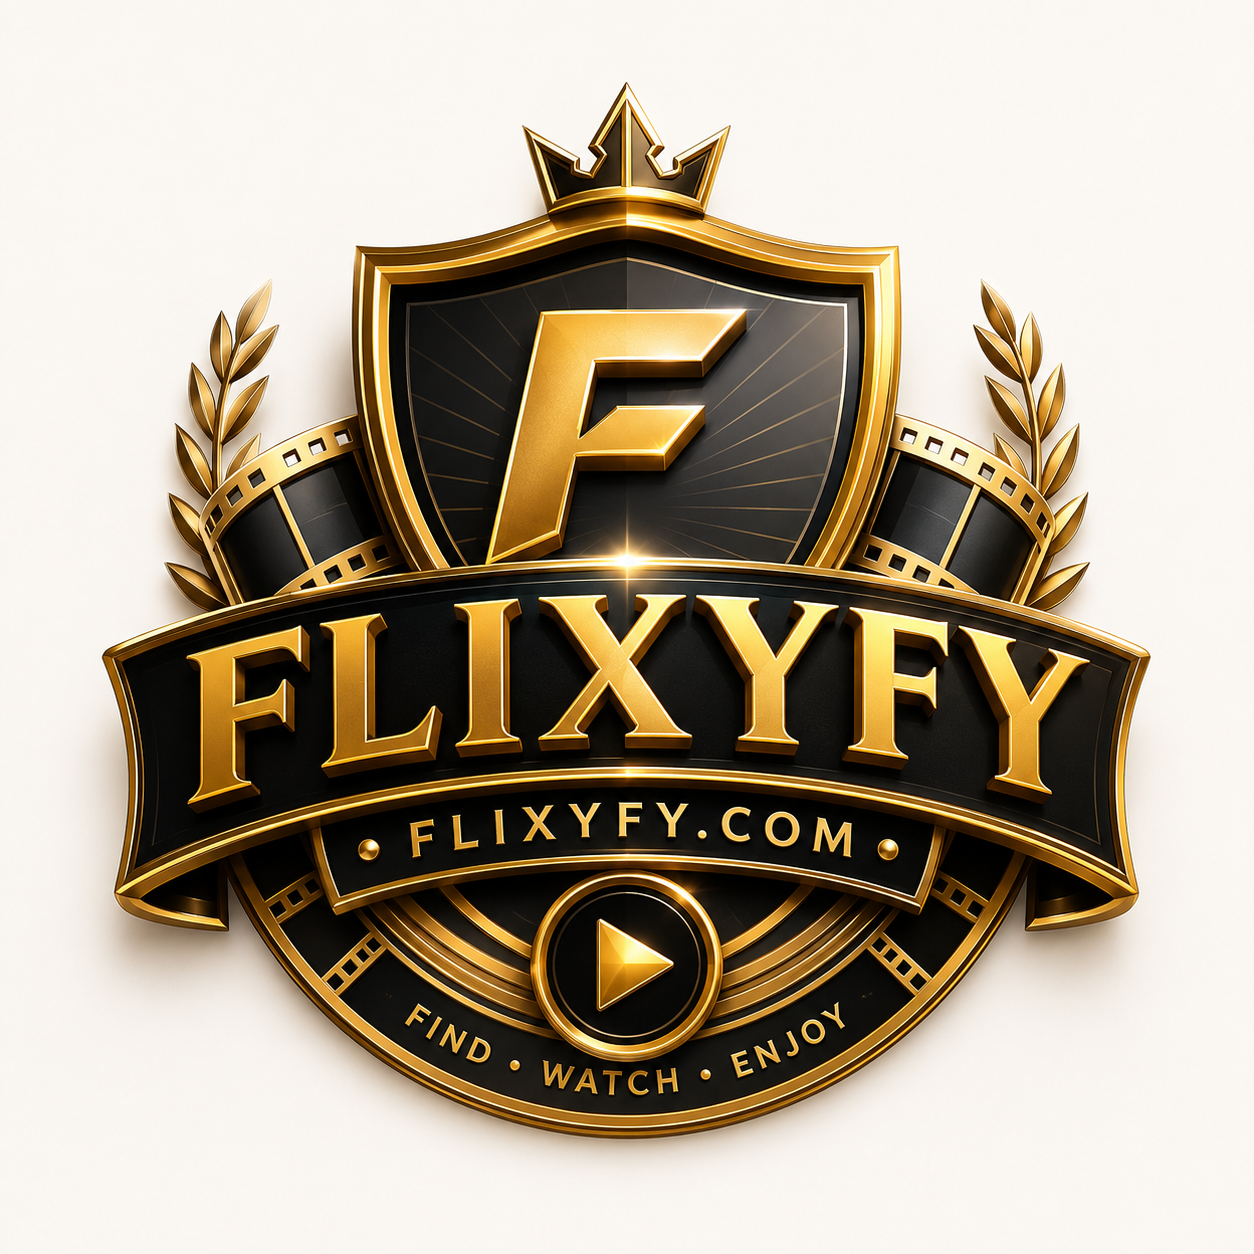
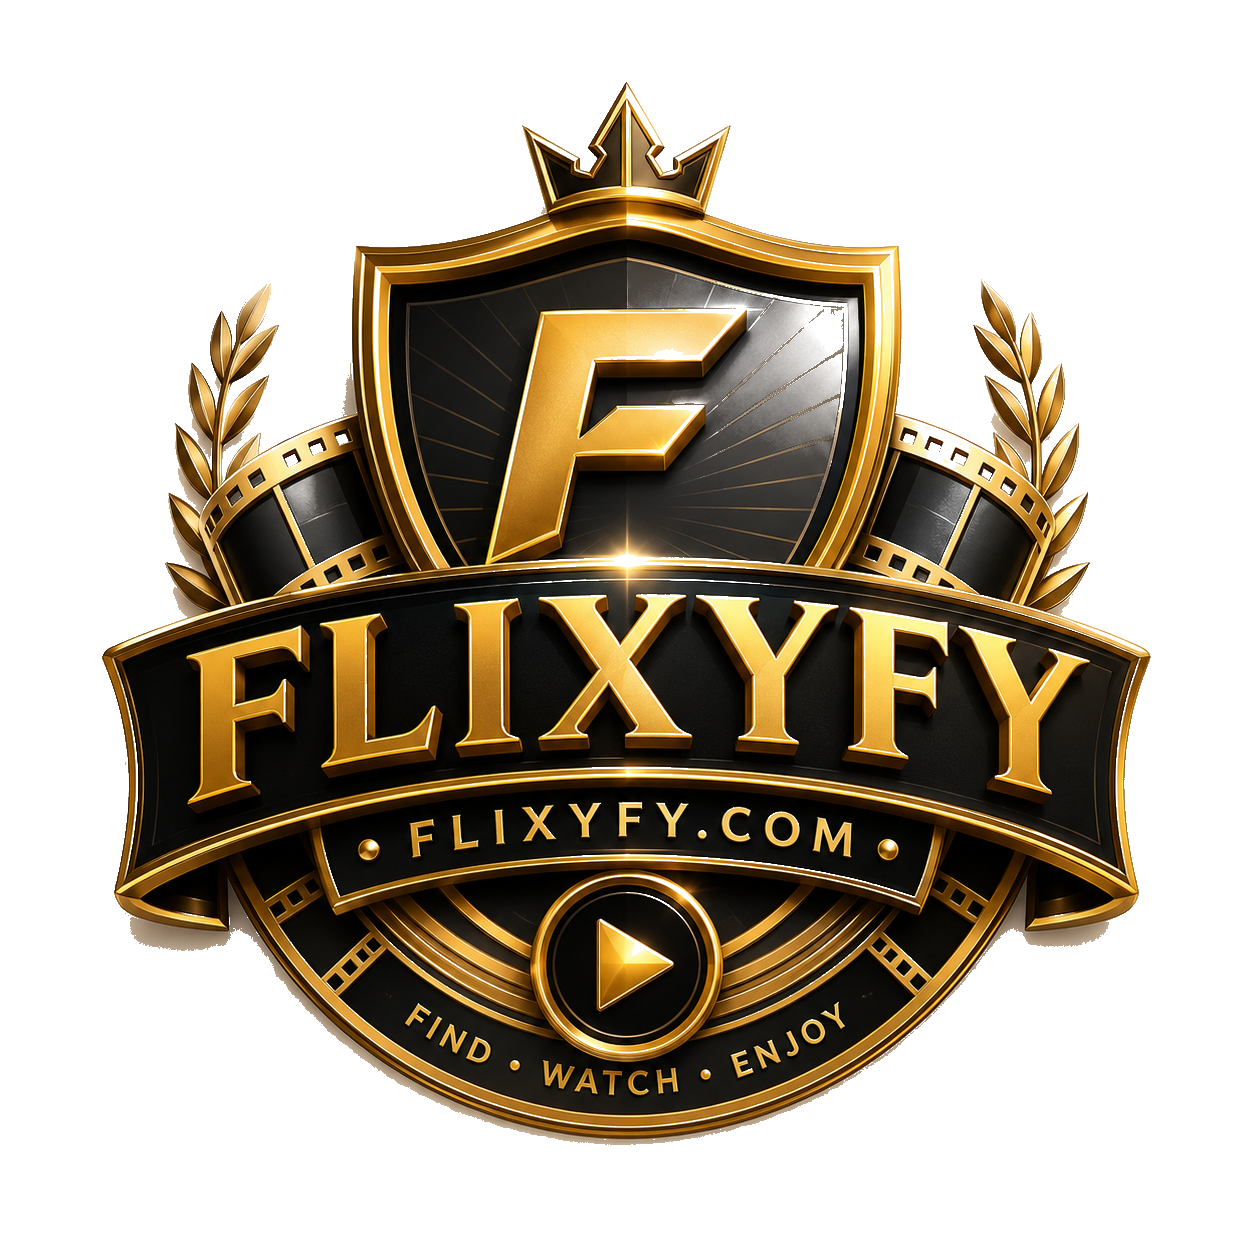
feat(web): polish homepage bright gold branding and navigation

diff --git a/app/globals.css b/app/globals.css
@@ -2,19 +2,19 @@
 
 :root{
   --bg:#050505;
-  --bg-secondary:#0a0a0a;
-  --surface:#101010;
+  --bg-secondary:#080808;
+  --surface:#080808;
   --surface-raised:#17140a;
   --surface-soft:rgba(16,16,16,.72);
-  --border:#5b4818;
-  --border-soft:rgba(148,163,184,.16);
-  --text:#f8fafc;
+  --border:#C99A12;
+  --border-soft:rgba(201,154,18,.25);
+  --text:#FFFFFF;
   --text-secondary:#bdbdbd;
   --text-muted:#858585;
   --cyan:#FFD54A;
   --violet:#FFC928;
   --focus:#FFE88A;
-  --rating:#fbbf24;
+  --rating:#FFC928;
   --youtube:#ff0033;
   --danger:#fb7185;
   --radius-sm:12px;
@@ -495,8 +495,8 @@ button:focus-visible,a:focus-visible,input:focus-visible,select:focus-visible,[t
   --flixyfy-champagne-hover: #FFE88A;
   --flixyfy-white: #F7F7F4;
   --flixyfy-muted: #C8C8C1;
-  --flixyfy-gold-border: rgba(216, 191, 122, 0.30);
-  --flixyfy-gold-glow: rgba(216, 191, 122, 0.13);
+  --flixyfy-gold-border: rgba(255, 213, 74, 0.30);
+  --flixyfy-gold-glow: rgba(255, 213, 74, 0.13);
   color-scheme: dark;
 }
 
@@ -507,13 +507,13 @@ html, body {
 
 body {
   background-image:
-    radial-gradient(circle at 18% 0%, rgba(216,191,122,.055), transparent 34%),
+    radial-gradient(circle at 18% 0%, rgba(255,213,74,.055), transparent 34%),
     linear-gradient(180deg, var(--flixyfy-charcoal-deep) 0%, var(--flixyfy-charcoal) 28%, var(--flixyfy-charcoal) 100%);
   background-attachment: fixed;
 }
 
 ::selection {
-  background: rgba(216,191,122,.30);
+  background: rgba(255,213,74,.30);
   color: var(--flixyfy-white);
 }
 
@@ -533,7 +533,7 @@ textarea:focus-visible {
 .flixyfy-glass {
   background: rgba(34,34,34,.72);
   border-color: var(--flixyfy-gold-border);
-  box-shadow: 0 12px 40px rgba(0,0,0,.32), 0 0 0 1px rgba(216,191,122,.05) inset;
+  box-shadow: 0 12px 40px rgba(0,0,0,.32), 0 0 0 1px rgba(255,213,74,.05) inset;
   backdrop-filter: blur(16px);
 }
 
@@ -553,6 +553,7 @@ textarea:focus-visible {
   --gold-primary: #FFD54A;
   --gold-highlight: #FFE88A;
   --gold-strong: #FFC928;
+  --gold-border: #C99A12;
 }
 .brand { flex-shrink: 0; }
 .brand-logo {
@@ -605,4 +606,44 @@ textarea:focus-visible {
   .brand-logo { width:46px; height:46px; max-width:46px; flex-basis:46px; }
   .person-disambiguation { padding:16px; }
   .person-choices { grid-template-columns:1fr; }
+}
+/* Bright premium gold polish */
+.primary-nav a:hover,.header-search:hover {
+  color:var(--gold-highlight);
+  background:rgba(255,232,138,.08);
+}
+.primary-nav a.active {
+  color:var(--gold-primary);
+  background:rgba(255,213,74,.1);
+  box-shadow:inset 0 0 0 1px rgba(255,213,74,.32);
+}
+.hero h1 span {
+  background:linear-gradient(90deg,var(--gold-primary) 0%,var(--gold-highlight) 50%,var(--gold-strong) 100%);
+  -webkit-background-clip:text;
+  background-clip:text;
+  color:transparent;
+}
+.search-form { border-color:var(--gold-border); background:#080808; }
+.search-form:focus-within { border-color:var(--gold-highlight); box-shadow:0 0 0 1px rgba(255,232,138,.22); }
+.search-form button { background:var(--gold-primary); color:#050505; }
+.search-form button:hover { background:var(--gold-highlight); }
+.search-form button:active { background:var(--gold-strong); }
+.discovery-chips a,.language-rail a,.entity-chips span,.active-filter-chips button {
+  border-color:rgba(201,154,18,.7);
+}
+.discovery-chips a:hover,.language-rail a:hover,.active-filter-chips button:hover {
+  border-color:var(--gold-highlight);
+  color:var(--gold-highlight);
+}
+.suggestion-panel>button:hover,.suggestion-panel>button[aria-selected="true"] {
+  background:rgba(255,213,74,.1);
+}
+.section-heading>a:hover { color:var(--gold-highlight); }
+.brand-logo { background:transparent; box-shadow:none; filter:none; }
+/* FLIXYFY five-item mobile navigation */
+@media(max-width:620px) {
+  .mobile-nav { grid-template-columns:repeat(5,minmax(0,1fr)); }
+  .mobile-nav a { min-width:0; }
+  .section-heading { flex-wrap:wrap; gap:8px; }
+  .section-heading>a { flex:0 0 100%; }
 }

diff --git a/src/components/AppShell.tsx b/src/components/AppShell.tsx
@@ -1,15 +1,17 @@
-"use client";
+"use client";
 
 import type React from "react";
 import Link from "next/link";
 import { usePathname } from "next/navigation";
-import { Compass, Search, Tv2 } from "lucide-react";
+import { House, Languages, Search, Tv2, Users } from "lucide-react";
 import { useEffect } from "react";
 import FlixyfyLogo from "./FlixyfyLogo";
 
 const navigation = [
-  { href: "/", label: "Discover", icon: Compass },
+  { href: "/", label: "Home", icon: House },
   { href: "/search", label: "Search", icon: Search },
+  { href: "/search?mode=people", label: "People", icon: Users },
+  { href: "/#language-title", label: "Languages", icon: Languages },
   { href: "/providers", label: "Providers", icon: Tv2 },
 ] as const;
 

diff --git a/src/components/FlixyfyLogo.tsx b/src/components/FlixyfyLogo.tsx
@@ -10,6 +10,7 @@ export default function FlixyfyLogo() {
       width={1254}
       height={1254}
       sizes="(max-width: 768px) 58px, (min-width: 1600px) 68px, 64px"
+      unoptimized
       priority
       className="brand-logo"
     />

diff --git a/src/app/globals.css b/src/app/globals.css
@@ -27,6 +27,7 @@ body{
   --gold-primary: #FFD54A;
   --gold-highlight: #FFE88A;
   --gold-strong: #FFC928;
+  --gold-border: #C99A12;
 }
 body { background: #050505; color: #f5f5f5; }
 .brand { flex-shrink: 0; }
